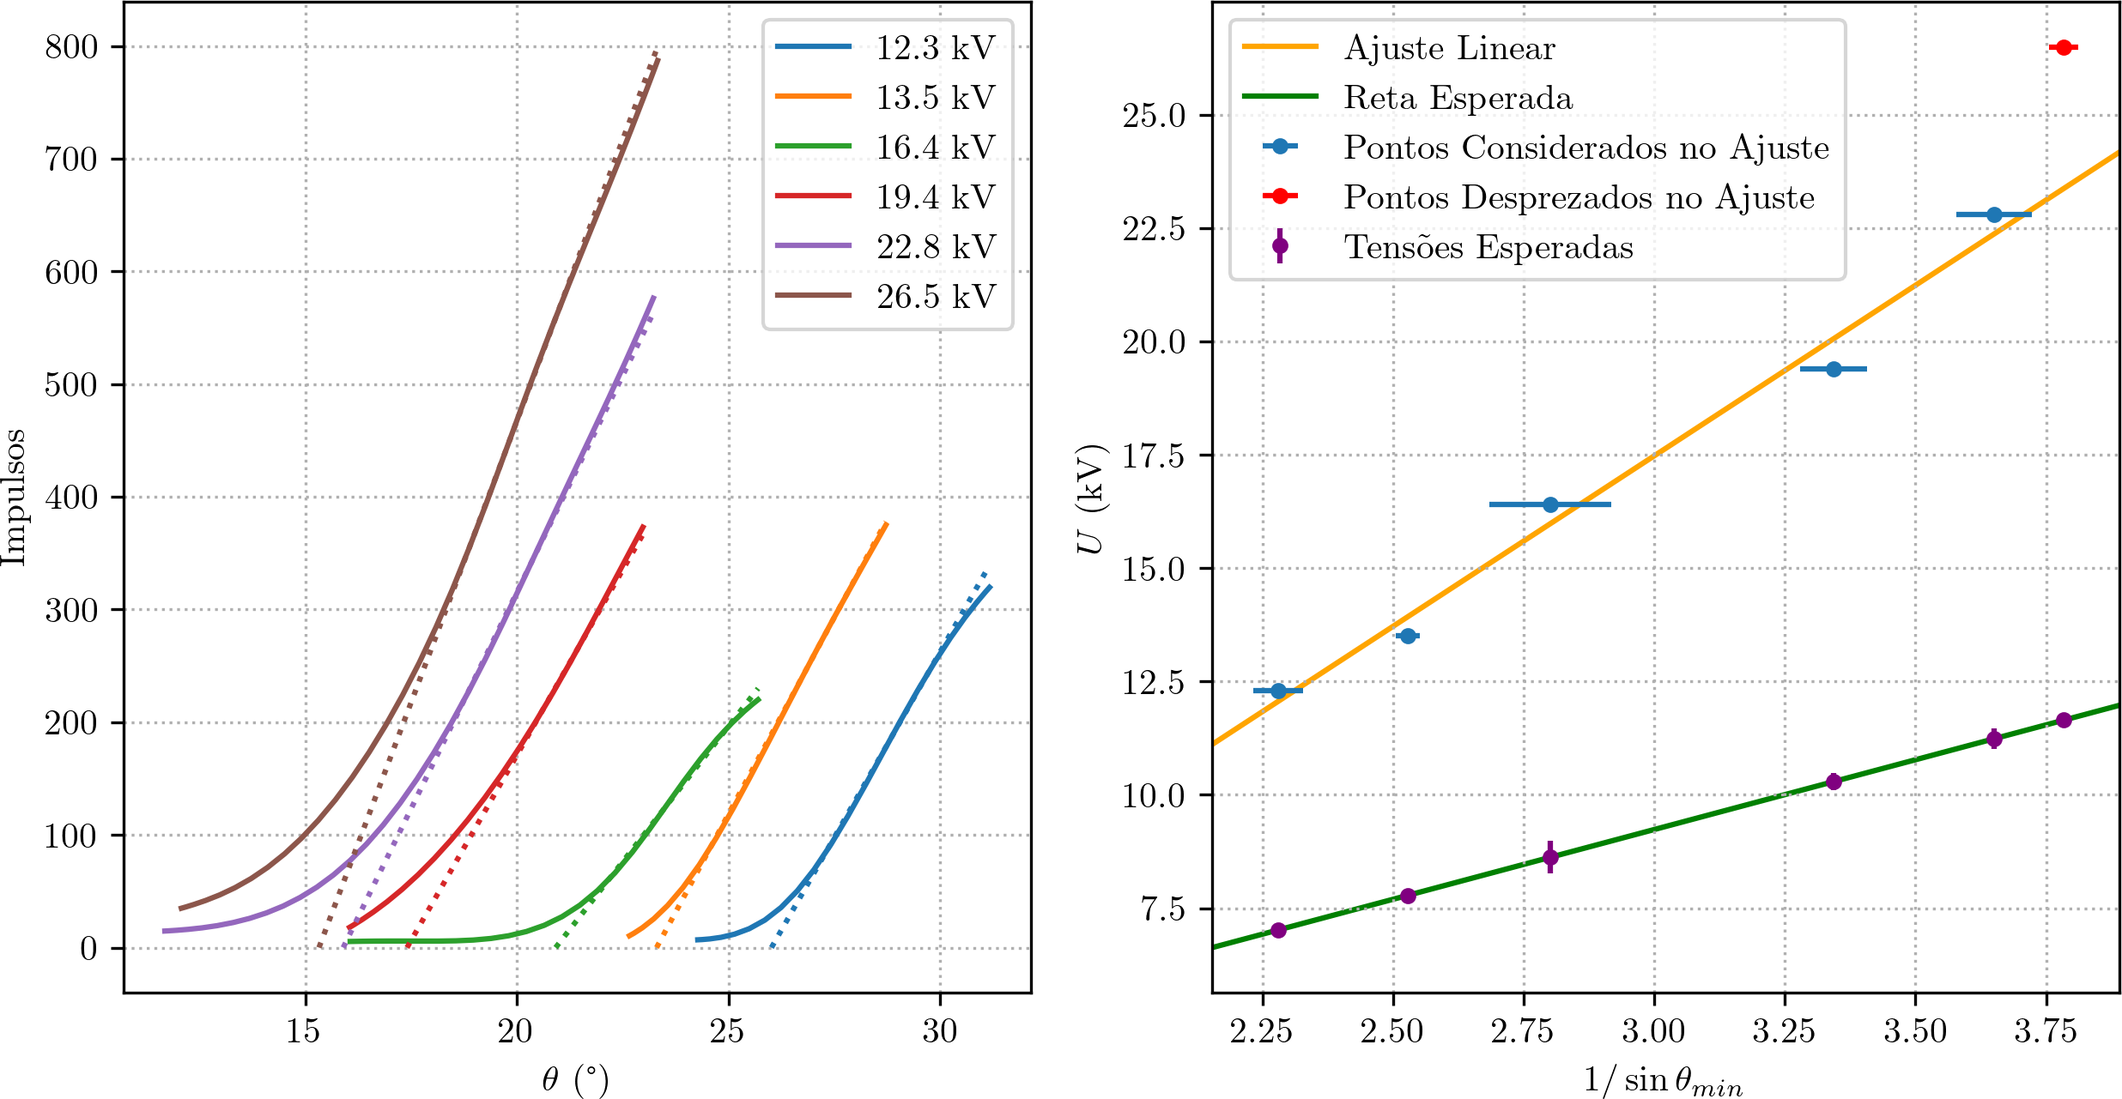
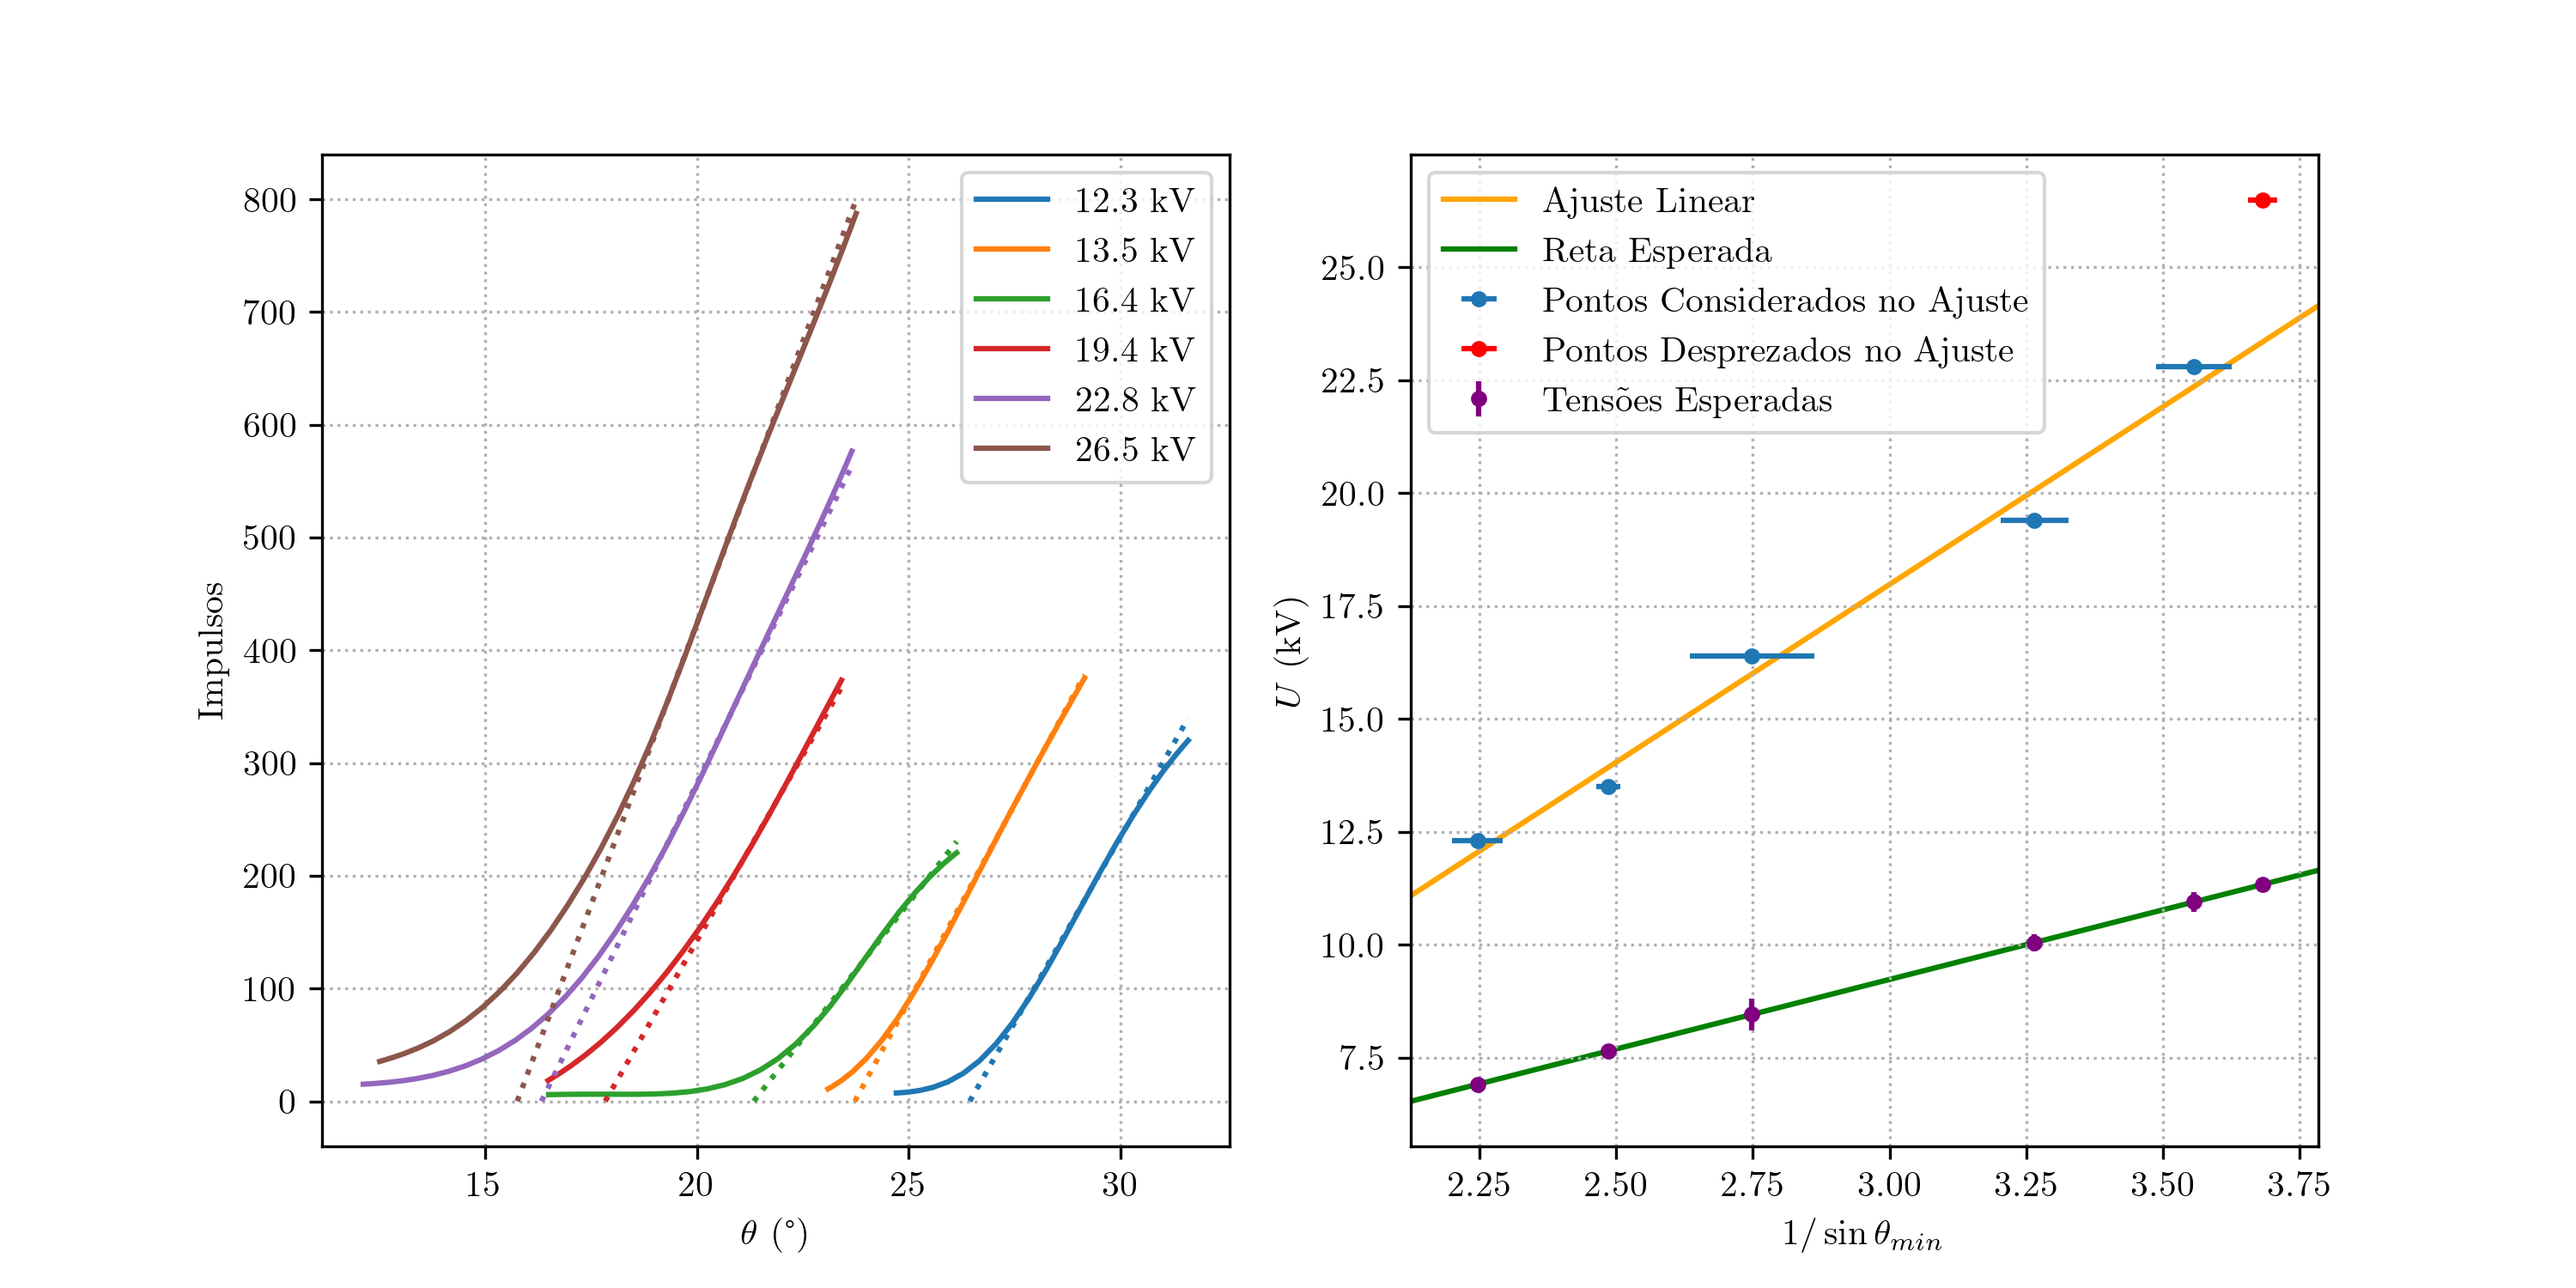
Adding correction to the angles

diff --git a/duane_hunt.py b/duane_hunt.py
@@ -38,11 +38,18 @@ fig, ax = plt.subplots(1, 2)
 # First plot: impulses in terms of angles
 ax[0].set(xlabel=r"$\theta$ (\si{\degree})", ylabel="Impulsos")
 
+# Adding correction to the angles based on the result of angular.py
+correction_df = pd.read_csv("results/angular_result.csv", decimal=",")
+correction = correction_df.loc[0, "center"]
+
 roots = []
 roots_stderr = []
 for voltage, df in zip(voltages, dfs):
-    x_filtered = gaussian_filter1d(df.loc[:, "Angle"], sigma=3)
-    y_filtered = gaussian_filter1d(df.loc[:, "Impulses"], sigma=3)
+    x_data = df.loc[:, "Angle"] + correction
+    y_data = df.loc[:, "Impulses"] + correction
+
+    x_filtered = gaussian_filter1d(x_data, sigma=3)
+    y_filtered = gaussian_filter1d(y_data, sigma=3)
     plot = ax[0].plot(x_filtered, y_filtered, label=rf"{voltage} \si{{kV}}")
     color = plot[-1].get_color()
 
